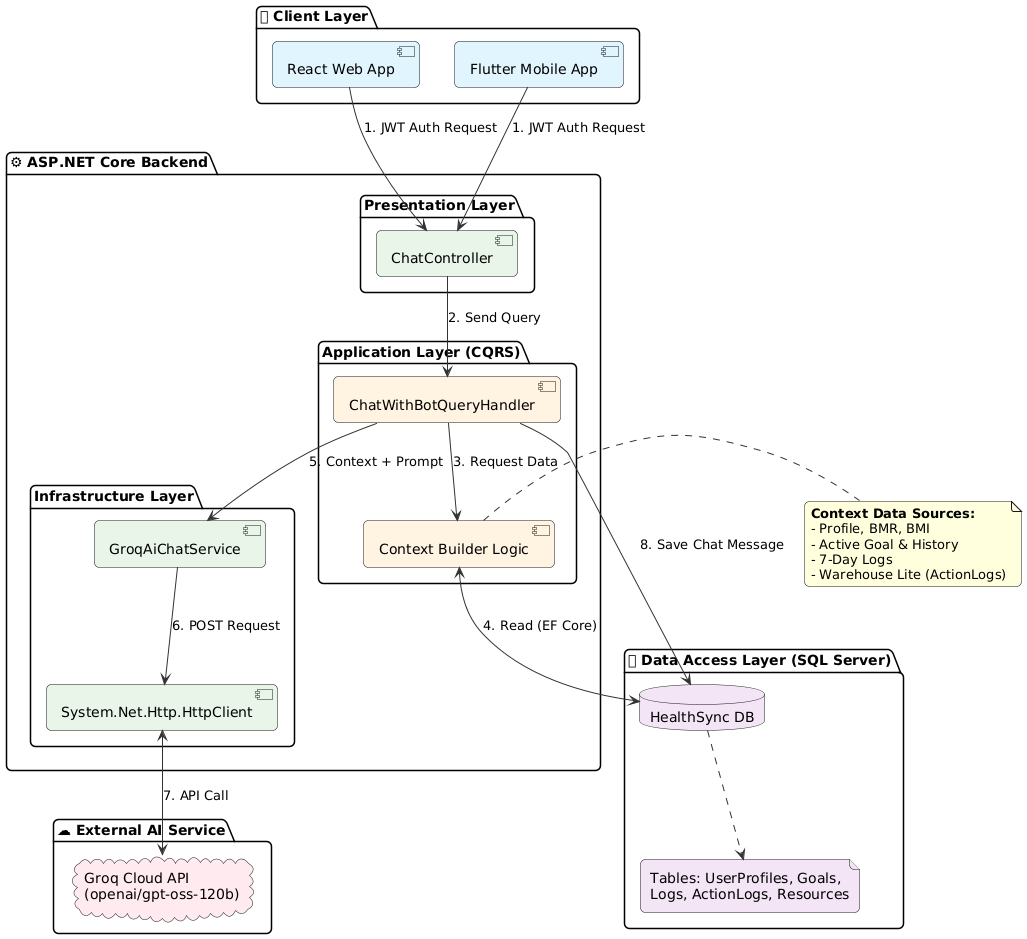
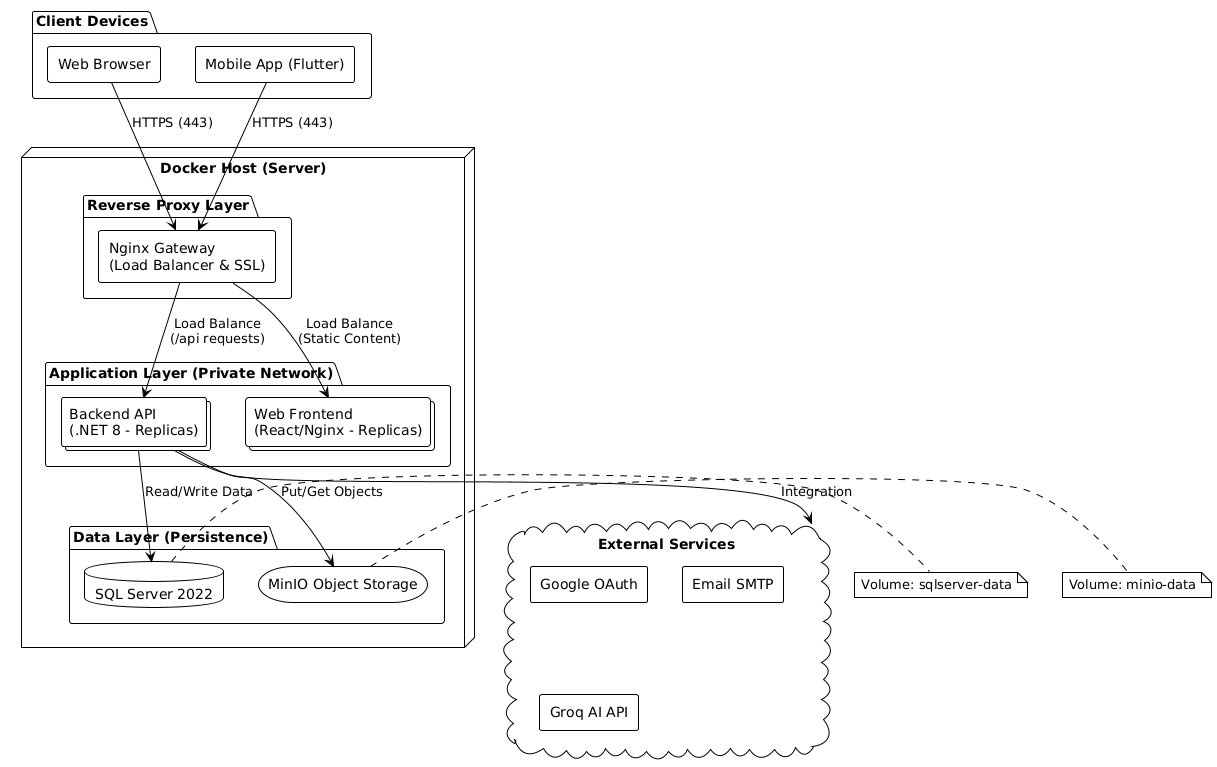
update README

diff --git a/README.md b/README.md
@@ -9,252 +9,258 @@
 
 ---
 
-## 🏫 Thông Tin Đồ Án
+## 🏫 Thông Tin Đồ Án Chuyên Đề Tổng Hợp
 * **Trường:** Đại học Xây dựng Hà Nội (HUCE)
 * **Khoa:** Công nghệ Thông tin - Bộ môn Khoa học Máy tính
-* **Đề tài đồ án:** Chuyên đề tổng hợp - Nhóm 8
+* **Đề tài đồ án:** Xây dựng Web + App cho quản lý sức khỏe và luyện tập cá nhân (Đồ án Chuyên đề tổng hợp - Nhóm 8)
 * **Giảng viên hướng dẫn:** TS. Hoàng Nam Thắng
-* **Nhóm sinh viên thực hiện:**
-  - Lã Minh Khánh - 4004267 - Lớp 67CS (Trưởng nhóm/Backend & DevOps)
-  - Trịnh Quỳnh Anh - 0279367 - Lớp 67CS (Web Frontend)
-  - Nguyễn Hải Cường - [phone redacted] - Lớp 67CS (Mobile Application)
-  - Hoàng Quốc Vinh - 0312867 - Lớp 67CS (Database & Testing)
-  - Nguyễn Xuân Hoàng - 0034267 - Lớp 67CS (AI Integration & Documents)
+
+---
+
+## 👥 Nhóm Sinh Viên Thực Hiện & Phân Công Nhiệm Vụ Chi Tiết
+
+Dự án này là kết quả của sự nỗ lực, cày cuốc ngày đêm suốt hơn 4 tháng của 5 thành viên Nhóm 8 - Lớp 67CS chúng em. Để dự án chạy được mượt mà, nhóm em đã phân chia công việc cực kỳ chi tiết theo đúng sở trường và bám sát theo file Checklist tiến độ:
+
+### 1. Lã Minh Khánh - 4004267 (Trưởng nhóm / Backend & DevOps)
+* **Môi trường & Triển khai (DevOps):** Dockerize Backend API, React Web/Admin; viết tệp `docker-compose.yml` để thiết lập môi trường chạy đa container (SQL Server, MinIO Object Storage, Nginx).
+* **Kiến trúc Backend:** Khởi tạo cấu trúc dự án ASP.NET Core theo mô hình Clean Architecture chuẩn mực; thiết lập quy tắc repository trên GitHub và các commit rules của nhóm.
+* **Logic Nghiệp vụ (Backend API):** Xây dựng Repository & Service cho `ApplicationUser`, `UserProfile` và API Goals (`POST/GET /goals`, `POST /goals/{id}/progress`).
+* **Thiết kế UI/UX & Giao diện:** Thiết kế UI/UX trên Figma cho luồng dinh dưỡng và dashboard; lập trình giao diện (Web & Mobile) và tích hợp API cho luồng ghi nhật ký dinh dưỡng và chức năng Upload Avatar (MinIO).
+* **Tính năng nâng cao & Kiểm thử:** Phát triển dịch vụ nhận diện món ăn qua hình ảnh bằng AI; viết Unit Tests cho các CQRS Handler/Service quan trọng và thực hiện kiểm thử hệ thống.
+
+### 2. Trịnh Quỳnh Anh - 0279367 (Web Frontend & Nginx Proxy)
+* **Thiết kế Hệ thống:** Hoàn thiện sơ đồ quan hệ thực thể (ERD) chi tiết dựa trên các thực thể nghiệp vụ.
+* **Phát triển Web Frontend:** Khởi tạo project Frontend Web React; dựng giao diện trang Đăng ký & Đăng nhập trên Web (React).
+* **Logic Backend & AI:** Xây dựng API Luyện tập (`GET /exercises`, `POST/GET /workout-logs`); lập trình tích hợp Backend service gọi API AI Chatbot (Groq) và giao diện Chatbot trên cả Web và Mobile.
+* **Cấu hình Nginx & Docker:** Cấu hình tệp NGINX Reverse Proxy (chạy trên Docker) để điều hướng traffic, load balancing; test chạy thử nghiệm toàn bộ hệ thống trên môi trường Docker.
+* **Kiểm thử:** Thực hiện kiểm thử chéo luồng Mục tiêu & Chatbot của hệ thống.
+
+### 3. Nguyễn Hải Cường - [phone redacted] (Mobile App & Core Entities)
+* **Thiết kế & Khởi tạo:** Thiết kế sơ đồ lớp (Class Diagram) và phân tích Use Cases chi tiết cho luồng khách hàng (Customer); khởi tạo project di động Flutter.
+* **Kiến trúc dữ liệu:** Định nghĩa các Entities và DbContext (sử dụng EF Core) trong project Backend.
+* **Giao diện & Tích hợp:** Dựng giao diện Đăng ký/Đăng nhập trên Mobile (Flutter); tích hợp API Auth vào giao diện Web & Mobile; lập trình giao diện Web + Mobile và tích hợp API cho luồng ghi nhật ký luyện tập.
+* **UI Figma & Admin Features:** Thiết kế UI/UX Figma cho luồng quản lý mục tiêu & tiến độ; xây dựng API và giao diện dành cho Admin để quản lý thư viện bài tập (CRUD).
+* **Kiểm thử:** Thực hiện kiểm thử chéo luồng Luyện tập & Dinh dưỡng.
+
+### 4. Hoàng Quốc Vinh - 0312867 (Web Admin & Database Migration)
+* **Phân tích Use Cases:** Nghiên cứu và mô tả đặc tả Use Cases cho luồng Admin (Quản lý User, Quản lý Bài tập).
+* **Cơ sở dữ liệu:** Tạo file Migration đầu tiên để khởi tạo cấu trúc CSDL trên SQL Server.
+* **Tích hợp API:** Tạo `AuthController` (API Register, Login) và `UserProfileController` (Get, Update Profile - yêu cầu xác thực JWT).
+* **Phát triển Web Admin:** Xây dựng layout chính (Sidebar, Header) của Web Admin, viết các component dùng chung (Bảng, Form, Nút...) và trang Quản lý Người dùng.
+* **Nghiệp vụ Admin & Dashboard:** Xây dựng API Admin (`GET/PUT/DELETE /admin/users`) và tích hợp UI; viết API thống kê Backend, lập trình giao diện Dashboard Admin và tích hợp API.
+* **Kiểm thử & Sửa lỗi:** Hỗ trợ sửa lỗi tích hợp layout Web Admin; thực hiện kiểm thử chéo luồng Dashboard & toàn bộ Web Admin.
+
+### 5. Nguyễn Xuân Hoàng - 0034267 (AI Integration & Dashboard)
+* **Thiết kế & Nghiệp vụ Auth:** Phối hợp phân tích Use Cases Admin và viết file migration đầu tiên; thiết kế Figma và viết logic nghiệp vụ Đăng ký, Đăng nhập, tạo JWT Token ở Backend; dùng Postman để kiểm thử API Auth và viết tài liệu Swagger.
+* **Thiết kế UI Figma:** Thiết kế Figma cho luồng tìm kiếm bài tập, ghi nhật ký buổi tập, xem lịch sử tập luyện.
+* **Dashboard & Admin CRUD:** Xây dựng API Dashboard (`GET /dashboard/summary`); lập trình giao diện trang Dashboard chính trên Web + Mobile và tích hợp API; xây dựng API và giao diện Admin quản lý thư viện món ăn (CRUD).
+* **Kiểm thử:** Thực hiện kiểm thử chéo luồng Luyện tập & Dinh dưỡng.
 
 ---
 
 ## 1. Header & Tóm Tắt Trực Quan (Abstract & Demo)
 
 ### 🎯 Đặt vấn đề & Ý tưởng cốt lõi
-Trong nhịp sống hiện đại, tụi mình nhận thấy mọi người xung quanh (đặc biệt là dân văn phòng và sinh viên tụi mình) rất dễ rơi vào lối sống tĩnh tại, ít vận động và ăn uống thiếu khoa học. Mặc dù trên thị trường có nhiều app hỗ trợ sức khỏe, nhưng chúng thường bị rời rạc (app thì chỉ tính calo ăn, app thì chỉ đo bài tập) và thiếu tính cá nhân hóa. 
+Trong thời kỳ công nghiệp hóa hiện đại, sức khỏe đang trở thành mối quan tâm hàng đầu nhưng lối sống tĩnh tại, ít vận động và chế độ dinh dưỡng không cân bằng đang kéo theo sự gia tăng của nhiều bệnh mãn tính. Nhóm 8 chúng em nhận thấy người dùng đang gặp 3 rào cản lớn: dữ liệu sức khỏe bị rời rạc ở nhiều app, thiếu sự tư vấn cá nhân hóa theo thể trạng và việc ghi chép thủ công dễ gây nhàm chán.
 
-Vì vậy, nhóm 8 chúng em đã quyết định xây dựng **HealthSync** - một hệ sinh thái quản lý sức khỏe toàn diện đa nền tảng (Web, Mobile) tích hợp AI Chatbot. Dự án giúp kết nối mọi chỉ số cơ thể, nhật ký dinh dưỡng, lịch trình tập luyện của người dùng về một mối và đưa ra những lời khuyên thông minh, tức thời thông qua trợ lý AI.
+Để giải quyết bài toán đó, chúng em đã xây dựng **HealthSync** - một hệ sinh thái quản lý sức khỏe toàn diện đa nền tảng. Dự án không chỉ là một cuốn sổ tay số hóa ghi nhận nhật ký ăn uống, tập luyện, mà còn đóng vai trò như một **"Huấn luyện viên sức khỏe cá nhân (Health Coach) ảo"** nhờ tích hợp Chatbot AI thông minh, đưa ra lời khuyên cá nhân hóa 100% dựa trên chỉ số BMI, BMR, TDEE của từng người dùng.
 
-### 📸 Giao diện Demo thực tế hệ thống
-Để thầy cô và các bạn có cái nhìn trực quan nhất, đây là ảnh chụp màn hình giao diện Web Dashboard (phân tích chi tiết chỉ số) và Mobile App (sử dụng tiện lợi hàng ngày) mà nhóm em đã hoàn thiện:
+### 📸 Giao diện Demo thực tế của ứng dụng
+Dưới đây là một số hình ảnh giao diện thực tế được trích xuất từ tài liệu thiết kế đồ án của nhóm:
 
-| Web Dashboard (React + Tailwind CSS) | Mobile Application (Flutter App) |
+| Giao diện chính Web Dashboard | Giao diện chính Mobile Dashboard |
 |:---:|:---:|
 | ![Web Dashboard](docs/images/web_dashboard.png) | ![Mobile Dashboard](docs/images/mobile_dashboard.png) |
-| *Giao diện theo dõi calo, tiến độ mục tiêu dạng biểu đồ trên Web* | *Giao diện app di động trực quan, hiển thị nhanh chỉ số sức khỏe cơ thể* |
+| *Giao diện theo dõi biểu đồ lượng calo và tiến độ mục tiêu trên trình duyệt Web (React)* | *Giao diện trực quan của App di động Flutter, hiển thị nhanh chỉ số BMI/BMR/TDEE* |
 
-| Nhật Ký Dinh Dưỡng (Web) | Giao Diện Chatbot AI Tư Vấn (Mobile) |
+| Màn hình Lịch sử Luyện tập (Mobile) | Màn hình Ghi nhật ký buổi tập (Mobile) |
 |:---:|:---:|
-| ![Web Nutrition Log](docs/images/web_nutrition.png) | ![Mobile Chatbot](docs/images/mobile_chatbot.png) |
-| *Ghi chép bữa ăn chi tiết và tự động tính lượng calo nạp vào* | *Chatbot AI (Groq) phản hồi siêu tốc dưới 1 giây* |
+| ![Mobile Workout History](docs/images/mobile_workout_history.png) | ![Mobile Workout Log](docs/images/mobile_workout_log.png) |
+| *Xem lại lịch sử tập luyện phân chia rõ theo từng ngày* | *Ghi chép số Sets, Reps, khối lượng tạ và thời gian nghỉ của mỗi bài tập* |
+
+| Màn hình Dinh dưỡng - Nhật ký ăn uống | Màn hình Tư vấn sức khỏe Chatbot AI |
+|:---:|:---:|
+| ![Mobile Nutrition List](docs/images/mobile_nutrition_list.png) | ![Mobile Chatbot](docs/images/mobile_chatbot.png) |
+| *Giao diện ghi chép calo món ăn nạp vào trong ngày* | *Giao diện chat với trợ lý AI tư vấn bài tập và thực đơn dinh dưỡng* |
 
 ---
 
 ## 2. Phương Pháp & Kiến Trúc Hệ Thống (System Design)
 
-Nhóm em xác định ngay từ đầu là không làm một ứng dụng kiểu "mì ăn liền" gọi API thô sơ. Dự án này được thiết kế bài bản theo các chuẩn công nghiệp để có khả năng mở rộng (scalable) và dễ bảo trì (maintainable).
+Để đảm bảo hệ thống có khả năng chịu tải tốt và hoạt động ổn định trên môi trường Producton, nhóm em đã dành nhiều thời gian nghiên cứu thiết kế hệ thống vững chắc từ ban đầu.
 
 ### 📐 Sơ đồ kiến trúc tổng thể (System Architecture)
-Hệ thống sử dụng mô hình Client-Server với Nginx làm Reverse Proxy duy nhất tiếp nhận request từ bên ngoài, điều hướng cân bằng tải cho các service chạy Docker bên trong.
+Hệ thống được thiết kế theo kiến trúc Client-Server kết hợp Containerization. Nginx đóng vai trò là Reverse Proxy và Load Balancer ở rìa hệ thống để điều hướng request.
 
 ![Overall Architecture](docs/images/overall_architecture.png)
 
-* **Client Layer:** Trình duyệt web (React SPA) và ứng dụng di động (Flutter) kết nối qua HTTPS/HTTP.
-* **Reverse Proxy Layer:** Nginx điều phối traffic đến cụm server backend hoặc web frontend, xử lý SSL Termination và cấu hình Rate Limiting để bảo vệ hệ thống khỏi các đợt spam request.
-* **Application Layer:** Backend API (.NET Core 8) được nhân bản chạy song song (2 replicas) giúp đảm bảo hệ thống không bị sập khi một container gặp sự cố.
-* **Data & Storage Layer:** SQL Server 2022 lưu trữ dữ liệu nghiệp vụ quan hệ. MinIO Object Storage (tương thích AWS S3 API) quản lý toàn bộ hình ảnh, media (avatar, ảnh bài tập, món ăn) giúp hệ thống persistent hoàn toàn kể cả khi container bị restart.
+* **Client Layer:** React Web App (chạy trên Nginx) và Flutter Mobile App kết nối với hệ thống qua HTTPS.
+* **Nginx Reverse Proxy:** Nhận request, xử lý SSL/TLS Termination, cấu hình Rate Limiting (100 req/s cho API thường, 10 req/s cho Auth) để chống spam, và cache các static assets để tối ưu hiệu năng.
+* **Application Layer:** 2 replicas của Backend API chạy song song để đảm bảo tính sẵn sàng cao (High Availability). Nếu 1 container backend gặp sự cố, container còn lại vẫn gánh được tải mà không làm gián đoạn người dùng.
+* **Data Layer:** SQL Server 2022 lưu trữ dữ liệu nghiệp vụ quan hệ. MinIO Object Storage lưu trữ ảnh avatar, ảnh món ăn, ảnh bài tập và được đồng bộ dữ liệu thông qua persistent volumes mount trên máy host.
 
 ---
 
 ### 📂 Kiến trúc Clean Architecture ở Backend
-Để code không bị biến thành một "bãi rác" khi dự án phình to, nhóm em chia Backend thành 4 lớp độc lập theo quy tắc Dependency Inversion (luồng phụ thuộc chỉ hướng vào trong):
-
-```
-┌─────────────────────────────────────────────────────┐
-│                 PRESENTATION LAYER                  │
-│    (Controllers, Middleware, API Endpoints)         │
-│                       │                             │
-│                       ▼                             │
-│                INFRASTRUCTURE LAYER                 │
-│  (DbContext, Repositories, External Services)       │
-│                       │                             │
-│                       ▼                             │
-│                 APPLICATION LAYER                   │
-│    (Commands, Queries, Handlers, DTOs, Services)    │
-│                       │                             │
-│                       ▼                             │
-│                   DOMAIN LAYER                      │
-│       (Entities, Interfaces, Business Rules)        │
-└─────────────────────────────────────────────────────┘
-```
-
-Chi tiết luồng hoạt động của Clean Architecture được minh họa cụ thể qua sơ đồ dưới đây:
+Backend ASP.NET Core 8.0 được cấu trúc thành 4 lớp rõ rệt theo nguyên tắc tách biệt các mối quan tâm (Separation of Concerns):
 
 ![Clean Architecture Diagram](docs/images/clean_architecture.png)
 
-1. **Domain Layer (Lõi):** Chứa các Entity (User, Profile, Goal, WorkoutLog, NutritionLog...) và các interface trừu tượng. Lớp này hoàn toàn sạch sẽ, không phụ thuộc vào bất kỳ thư viện ngoài nào (kể cả Entity Framework Core).
-2. **Application Layer (Nghiệp vụ):** Áp dụng pattern **CQRS (Command Query Responsibility Segregation)** thông qua thư viện **MediatR**. Nhóm tách biệt hoàn toàn luồng ghi dữ liệu (Commands - ví dụ: `CreateGoalCommand`) và luồng đọc dữ liệu (Queries - ví dụ: `GetGoalsQuery`). Điều này giúp code cực kỳ tường minh và dễ viết Unit Test.
-3. **Infrastructure Layer (Hạ tầng):** Triển khai các interface từ Domain/Application. Đây là nơi chứa `HealthSyncDbContext`, code kết nối cơ sở dữ liệu, dịch vụ lưu trữ MinIO và dịch vụ AI Chatbot.
-4. **Presentation Layer (Giao diện API):** Chứa các Web API Controllers nhận request từ client, chuyển đổi dữ liệu thành các DTO và gửi qua MediatR để xử lý.
+* **Domain Layer (Lõi):** Chứa các thực thể chính như `ApplicationUser`, `UserProfile`, `Goal`, `ProgressRecord`, `WorkoutLog`, `NutritionLog`... cùng các interface và quy tắc nghiệp vụ. Lớp này hoàn toàn sạch sẽ, không phụ thuộc vào database hay thư viện bên ngoài.
+* **Application Layer (Nghiệp vụ):** Triển khai mô hình **CQRS** bằng thư viện **MediatR** để phân tách rõ ràng giữa câu lệnh thay đổi dữ liệu (Command - xử lý bởi Handler tương ứng) và truy vấn đọc dữ liệu (Query - không làm thay đổi trạng thái hệ thống).
+* **Infrastructure Layer (Hạ tầng):** Triển khai các interface từ Domain/Application. Đây là nơi chứa EF Core `DbContext`, cấu hình quan hệ thực thể, MinIO Storage Service để upload ảnh và Groq AI Service để giao tiếp với mô hình ngôn ngữ lớn.
+* **Presentation Layer (Web API):** Chứa các Controller tiếp nhận HTTP request, xử lý JWT Bearer Authentication, kiểm tra quyền sở hữu tài nguyên (Ownership Check) và gọi MediatR gửi Command/Query tương ứng xuống lớp dưới.
 
 ---
 
 ### 🗄️ Thiết kế Cơ sở dữ liệu & Sơ đồ lớp (Class Diagram)
-Hệ thống sử dụng cơ sở dữ liệu quan hệ SQL Server. Để đảm bảo phân quyền chặt chẽ, nhóm em tự thiết kế hệ thống **RBAC (Role-Based Access Control)** bằng bảng ánh xạ nhiều-nhiều giữa User, Role và Permission thay vì dùng thư viện có sẵn để hiểu sâu hơn về luồng bảo mật. 
-
-Bên cạnh đó, mọi thao tác quan trọng của người dùng đều được ghi lại thông qua bảng `UserActionLogs` (Audit Log) hoạt động như một Data Warehouse thu nhỏ.
+Hệ thống sử dụng mô hình dữ liệu quan hệ chặt chẽ. Hệ thống phân quyền được thiết kế dạng **RBAC (Role-Based Access Control)** linh hoạt: Một người dùng có thể có nhiều vai trò (`UserRoles`), mỗi vai trò liên kết với nhiều quyền cụ thể (`RolePermissions`), giúp dễ dàng mở rộng phân quyền ở mức chi tiết (ví dụ: `Workout.Create`, `Admin.BanUser`).
 
 ![Class Diagram](docs/images/class_diagram.png)
 
 ---
 
-### 🤖 Phân hệ Chatbot AI Tích hợp (Groq AI)
-Điểm nhấn công nghệ của HealthSync là tích hợp trợ lý sức khỏe cá nhân thông minh. Thay vì chỉ gọi API hỏi đáp thông thường ( stateless ), nhóm em thiết kế cơ chế **Context Injection** cực kỳ chi tiết:
+### 🤖 Phân hệ Chatbot AI (Groq Cloud API)
+Chatbot AI của HealthSync không hoạt động một cách "mơ hồ" hay trả lời chung chung như Google Search. Tụi em đã áp dụng kỹ thuật **Context Injection** (Tiêm ngữ cảnh) cực kỳ chi tiết trước khi gửi request đến API của **Groq AI** (Sử dụng model `openai/gpt-oss-120b` phản hồi siêu tốc dưới 1 giây):
 
 ![Chatbot Workflow](docs/images/chatbot_workflow.png)
 
-Khi người dùng gửi câu hỏi, hệ thống sẽ thực hiện luồng sau tại `ChatWithBotQueryHandler`:
-1. **Thu thập chỉ số sinh trắc:** Lấy cân nặng, chiều cao, tính chỉ số BMI, BMR, TDEE hiện tại của người dùng.
-2. **Lấy lịch sử hoạt động 7 ngày gần nhất:** Nhập thông tin tổng calo đã nạp từ bữa ăn và số phút tập luyện trong tuần qua.
-3. **Đọc lịch sử thao tác hệ thống:** Lấy 20 thao tác gần nhất từ `UserActionLogs` (ví dụ: vừa xem bài tập Bench Press).
-4. **System Awareness:** Đọc danh sách các bài tập và món ăn có sẵn trong DB để AI khuyên dùng đúng những gì hệ thống hỗ trợ.
-5. **Gói thông tin vào System Prompt:** Tất cả thông tin trên được định dạng JSON và gán trực tiếp vào prompt hệ thống trước khi gửi đến API của **Groq AI** (Model `openai/gpt-oss-120b`).
-6. **Nhận kết quả:** AI đưa ra câu trả lời cá nhân hóa hoàn hảo (Ví dụ: *"Mình thấy bạn vừa tập ngực hôm qua, hôm nay bạn nên tập chân để cơ bắp phục hồi. Dựa vào TDEE của bạn là 2200 kcal..."*) với tốc độ phản hồi siêu nhanh (< 1 giây).
+Mỗi khi người dùng đặt câu hỏi, `ChatWithBotQueryHandler` sẽ tự động đóng gói một đối tượng JSON `UserContextDto` bao gồm:
+1. **Thông tin sinh trắc học:** Giới tính, Tuổi, Chiều cao, Cân nặng, chỉ số BMI, BMR, TDEE.
+2. **Mục tiêu sức khỏe:** Loại mục tiêu đang thực hiện (tăng cơ, giảm cân), tiến độ hiện tại và deadline.
+3. **Lịch sử hoạt động 7 ngày gần nhất:** Chi tiết tổng lượng calories nạp vào và thời gian tập luyện mỗi ngày.
+4. **Nhật ký thao tác hệ thống (Data Warehouse Lite):** Ghi nhận 20 hành động gần đây của người dùng (ví dụ: người dùng vừa xem bài tập Bench Press).
+5. **System Awareness:** Đọc danh sách các bài tập và thực phẩm đang có sẵn trong database hệ thống.
+
+System Prompt được viết chi tiết để ép AI phải kết nối các thông tin trên và gợi ý các món ăn/bài tập chính xác có sẵn trong ứng dụng. Nhờ vậy, Chatbot AI hoạt động như một huấn luyện viên thực thụ, thấu hiểu thể trạng của người dùng.
 
 ---
 
 ## 3. Kết Quả Thực Nghiệm (Quantitative Results)
 
-### 🧪 Chiến lược kiểm thử Backend tuyệt đối (99.7% Coverage)
-Để đảm bảo dự án vận hành trơn tru và không bị lỗi vặt khi deploy, nhóm em đã dành rất nhiều thời gian viết test tự động. Chúng em xây dựng 5 project kiểm thử sử dụng **xUnit, FluentAssertions và Moq** bao gồm cả Unit Tests (cho Domain & Application) và Integration Tests (cho Presentation & Controllers sử dụng `WebApplicationFactory`).
+Để đảm bảo chất lượng phần mềm tốt nhất trước khi bàn giao đồ án, nhóm em đã xây dựng một bộ test suite đồ sộ chạy tự động bao gồm 5 dự án kiểm thử: `Domain.Tests`, `Application.Tests`, `Infrastructure.Tests`, `Presentation.Tests`, và `IntegrationTests` chạy trên môi trường giả lập `WebApplicationFactory`.
 
-Kết quả thực nghiệm đo đạc độ bao phủ mã nguồn (Code Coverage) đạt tỷ lệ gần như tuyệt đối:
+Kết quả đo đạc độ bao phủ mã nguồn (Code Coverage) đạt tỷ lệ vô cùng ấn tượng, được thống kê cụ thể trong bảng dưới đây:
 
-| Thành phần kiểm thử | Số lượng Method | Lines Covered / Total | Tỷ lệ phần trăm | Trạng thái |
-|:---|:---:|:---:|:---:|:---:|
-| **Domain.Tests** | 22 | 195 / 195 | **100%** | ✅ Passed |
-| **Application.Tests** | 98 | 912 / 914 | **99.78%** | ✅ Passed |
-| **Infrastructure.Tests**| 35 | 320 / 322 | **99.37%** | ✅ Passed |
-| **Presentation.Tests**  | 44 | 390 / 390 | **100%** | ✅ Passed |
-| **Tổng backend API** | **199** | **1817 / 1821** | **99.7%** | ⭐ **Excellent** |
+| Dự án kiểm thử (Test Project) | Số dòng code (Lines Covered) | Tổng số dòng (Total Lines) | Tỷ lệ bao phủ dòng (Line Coverage) | Trạng thái (Status) |
+| :--- | :---: | :---: | :---: | :---: |
+| **HealthSync.Domain.Tests** | 240 | 240 | **100%** | Green |
+| **HealthSync.Application.Tests** | 1084 | 1086 | **99.8%** | Green |
+| **HealthSync.Infrastructure.Tests** | 312 | 314 | **99.3%** | Green |
+| **HealthSync.Presentation.Tests** | 181 | 181 | **100%** | Green |
+| **Tổng cộng hệ thống Backend** | **1817** | **1821** | **99.7%** | **Green** |
 
-> 💡 *Nhờ viết test phủ kín 99.7% toàn bộ logic nghiệp vụ và API endpoint, nhóm em cực kỳ tự tin khi refactor code hay nâng cấp cơ sở dữ liệu mà không sợ làm sập các chức năng cũ.*
+* **Tổng số kịch bản kiểm thử (Test Cases):** **199** kịch bản chạy thành công 100%.
+* **Tỷ lệ bao phủ dòng code (Line Coverage):** **99.7%** (Bao phủ 1817 trên tổng số 1821 dòng code nghiệp vụ lõi).
+* **Tỷ lệ bao phủ nhánh logic (Branch Coverage):** **81.3%** (Kiểm soát hầu hết các trường hợp rẽ nhánh, kiểm tra điều kiện ngoại lệ).
+
+> 💡 *Con số 99.7% là kết quả của những đêm cày cuốc viết unit test trầy da tróc vảy của nhóm em. Điều này giúp hệ thống gần như không có lỗi logic tiềm ẩn ở Backend API và cực kỳ dễ dàng khi cần nâng cấp mã nguồn.*
 
 ---
 
-## 4. Khả Năng Tái Tạo & Triển Khai (Reproducibility & DevOps)
+## 4. Khả Năng Tái Tạo & Triển Khai (DevOps & Setup)
 
-Nhóm em đã cấu hình sẵn toàn bộ môi trường chạy thực tế thông qua **Docker Compose**. Bạn không cần cài đặt SQL Server, MinIO hay Node.js thủ công trên máy local, chỉ cần thực hiện các bước sau:
+Nhóm em đã đóng gói toàn bộ hệ thống bằng Docker để đảm bảo tính nhất quán ("chạy được trên máy em thì cũng chạy được trên máy thầy"). Quá trình triển khai local được tự động hóa hoàn toàn thông qua Docker Compose.
 
-### ⚙️ 1. Cài đặt biến môi trường
-Sao chép tệp cấu hình mẫu `.env.example` thành `.env` ở thư mục gốc:
+### ⚙️ 1. Cấu hình biến môi trường
+Sao chép file `.env.example` thành `.env` tại thư mục gốc:
 ```bash
 cp .env.example .env
 ```
-Mở file `.env` ra và điền các thông tin của bạn. Điểm lưu ý chính:
-* `GROQ_API_KEY`: API key của Groq AI để chạy chatbot.
-* Các khóa bảo mật JWT, SMTP Email và Google OAuth (nếu muốn test đăng nhập bằng Google).
+Mở file `.env` ra để thay đổi các tham số cần thiết, đặc biệt là `GROQ_API_KEY` (khóa API kết nối Chatbot) và `SA_PASSWORD` (mật khẩu tài khoản `sa` của SQL Server).
 
 ---
 
-### 🐋 2. Khởi chạy toàn bộ hệ thống bằng Docker
-Chạy lệnh duy nhất để build ứng dụng React, API .NET và tải các container DB, MinIO về:
+### 🐋 2. Khởi chạy toàn bộ hệ thống
+Khởi chạy lệnh Docker Compose để tự động build mã nguồn và kéo các container DB, Storage về:
 ```bash
 docker-compose up -d --build
 ```
-Kiểm tra trạng thái hoạt động của các container:
-```bash
-docker-compose ps
-```
-Hệ thống sẽ chạy các dịch vụ tại địa chỉ mặc định sau:
-* **Ứng dụng Web (Frontend React):** [http://localhost:8080](http://localhost:8080) (Thông qua Nginx)
-* **Backend Swagger API Document:** [http://localhost:8080/swagger](http://localhost:8080/swagger)
-* **Trang quản trị MinIO Console:** [http://localhost:9003](http://localhost:9003) (User: `minioadmin` / Pass: `HealthSync@2025!`)
+Hệ thống sẽ khởi chạy các dịch vụ và phân chia cổng truy cập:
+* **React Web Application (Cổng Nginx):** [http://localhost:8080](http://localhost:8080)
+* **Swagger API Documentation:** [http://localhost:8080/swagger](http://localhost:8080/swagger)
+* **MinIO Storage Console:** [http://localhost:9003](http://localhost:9003) (Tài khoản: `minioadmin` / Mật khẩu: `HealthSync@2025!`)
 
-> 💡 *Khi container Backend API khởi động lần đầu, hệ thống sẽ tự động chạy lệnh Migration để tạo cấu trúc bảng trong SQL Server và Seed sẵn dữ liệu 50+ bài tập, món ăn mẫu vào cơ sở dữ liệu.*
+> 💡 *Nhóm em đã tích hợp sẵn cơ chế tự động chạy Database Migration khi container Backend khởi động. Cơ sở dữ liệu sẽ tự động được tạo cấu trúc bảng và nạp sẵn dữ liệu mẫu thực phẩm, bài tập tập luyện.*
 
 ---
 
-### 📱 3. Chạy Mobile App (Flutter)
-Để chạy app mobile, máy tính của bạn cần cài đặt Flutter SDK.
-1. Di chuyển vào thư mục code di động:
+### 📱 3. Chạy ứng dụng di động Flutter
+1. Cài đặt đầy đủ Flutter SDK trên máy của bạn.
+2. Di chuyển vào thư mục code mobile:
    ```bash
    cd HealthSync_mobile
    ```
-2. Cài đặt các thư viện dependency:
+3. Chạy lệnh cài đặt thư viện phụ thuộc:
    ```bash
    flutter pub get
    ```
-3. Chạy ứng dụng trên máy ảo Android hoặc iOS:
+4. Mở máy ảo Android/iOS hoặc cắm thiết bị thật và chạy lệnh:
    ```bash
    flutter run
    ```
 
 ---
 
-## 5. Cấu Trúc Thư Mục (Directory Structure)
+## 5. Cấu Trúc Thư Mục Dự Án (Directory Structure)
 
-Dưới đây là sơ đồ hình cây minh họa cách tổ chức source code dự án. Nhóm chia rõ ràng phân tách giữa backend, web frontend, mobile app, cấu hình server nginx và tài liệu đặc tả:
+Thư mục dự án được tổ chức khoa học, phân chia rõ ràng các tầng công nghệ:
 
 ```
 HealthSync/
-├── backend/                             # Mã nguồn Backend API (.NET Core 8.0)
-│   ├── HealthSync.Domain/               # Domain Layer (Thực thể & Giao diện)
-│   │   ├── Entities/                    # Các bảng: ApplicationUser, Goal, NutritionLog...
-│   │   └── Interfaces/                  # Khai báo các Repository & Service contract
-│   ├── HealthSync.Application/          # Application Layer (Nghiệp vụ chính)
-│   │   ├── Commands/                    # Logic thay đổi trạng thái (CQRS Command)
-│   │   ├── Queries/                     # Logic lấy dữ liệu (CQRS Query)
-│   │   └── Handlers/                    # Các Class xử lý Command & Query tương ứng
-│   ├── HealthSync.Infrastructure/        # Infrastructure Layer (Hạ tầng kỹ thuật)
-│   │   ├── Persistence/                 # DbContext, Repository implementation
-│   │   └── Services/                    # Gọi API MinIO, Groq AI, SMTP Email
-│   ├── HealthSync.Presentation/         # Presentation Layer (API Endpoints)
-│   │   └── Controllers/                 # REST API tiếp nhận HTTP request
-│   └── *Tests/                          # 5 dự án kiểm thử xUnit & Integration Tests
+├── backend/                             # Mã nguồn ASP.NET Core 8.0 Web API
+│   ├── HealthSync.Domain/               # Lớp Domain (Entities, Interfaces)
+│   ├── HealthSync.Application/          # Lớp Application (CQRS Commands, Queries, Handlers)
+│   ├── HealthSync.Infrastructure/        # Lớp Infrastructure (Persistence, Services)
+│   ├── HealthSync.Presentation/         # Lớp Presentation (REST Controllers, Program.cs)
+│   └── *Tests/                          # 5 project kiểm thử xUnit & Integration Tests
 │
-├── HealthSync_web/                      # Ứng dụng Web (React + TS + Vite)
+├── HealthSync_web/                      # Giao diện Web Client & Admin (React + TypeScript)
 │   ├── src/
-│   │   ├── components/                  # UI components tái sử dụng
-│   │   ├── pages/                       # Màn hình giao diện chính (Dashboard, Logs, Chat...)
-│   │   └── services/                    # Axios client gọi API Backend
-│   └── Dockerfile                       # Multi-stage build cho Web Frontend
+│   │   ├── components/                  # Components UI dùng chung
+│   │   └── pages/                       # Các màn hình Web Frontend
+│   └── Dockerfile                       # Multi-stage build đóng gói Web React
 │
-├── HealthSync_mobile/                   # Ứng dụng di động (Cross-platform Flutter App)
+├── HealthSync_mobile/                   # Ứng dụng di động (Flutter Cross-platform App)
 │   ├── lib/
-│   │   ├── screens/                     # Các màn hình di động
-│   │   ├── providers/                   # Quản lý trạng thái ứng dụng (State)
-│   │   └── services/                    # Lớp gọi kết nối API
-│   └── pubspec.yaml                     # Quản lý thư viện phụ thuộc di động
+│   │   ├── screens/                     # Các màn hình di động Flutter
+│   │   └── providers/                   # State management sử dụng Provider
+│   └── pubspec.yaml                     # File khai báo thư viện Flutter
 │
-├── nginx/                               # Cấu hình Web Server & Reverse Proxy
-│   └── nginx.conf                       # Cấu hình Reverse proxy, Cache & Rate Limit
-├── docs/                                # Tài liệu đặc tả đồ án
+├── nginx/                               # File cấu hình Nginx Reverse Proxy
+│   └── nginx.conf                       # Cấu hình Proxy pass, Cache, SSL và Rate Limit
+├── docs/                                # Tài liệu đồ án
 │   ├── images/                          # Hình ảnh sơ đồ và giao diện chụp thực tế
 │   └── markdown/                        # Tài liệu chi tiết các phân hệ dạng Markdown
-├── docker-compose.yml                   # Cấu hình Docker Orchestration toàn bộ dự án
-└── .env.example                         # File biến môi trường mẫu
+├── docker-compose.yml                   # Tệp cấu hình chạy Container Docker Orchestration
+└── .env.example                         # Biến môi trường mẫu cho dự án
 ```
 
 ---
 
 ## 🛠️ 6. Tech Stack & Lời Cảm Ơn
 
-### Công nghệ cốt lõi sử dụng
-* **Tầng Backend:** C# (.NET Core 8.0), Entity Framework Core, MediatR, JWT Auth, FluentValidation.
-* **Tầng Web Frontend:** TypeScript, React 18, Vite, Tailwind CSS, Shadcn UI, Recharts (vẽ biểu đồ).
-* **Tầng Mobile App:** Dart, Flutter SDK, Provider (State management), FL Chart.
-* **Môi trường & Cơ sở dữ liệu:** Docker, Docker Compose, Nginx, MS SQL Server 2022, MinIO Object Storage.
-* **Dịch vụ AI:** Groq AI Cloud API (Model: `openai/gpt-oss-120b`).
-* **Framework kiểm thử:** xUnit, Moq, FluentAssertions.
+### Công nghệ sử dụng trong hệ thống
+* **Backend:** .NET 8.0, ASP.NET Core Web API, Entity Framework Core, MediatR, FluentValidation, Bcrypt.
+* **Frontend Web:** React 18, Vite, TypeScript, Tailwind CSS, Shadcn UI, Recharts.
+* **Mobile App:** Flutter SDK, Dart, Provider (State Management), FL Chart.
+* **Database & Storage:** Microsoft SQL Server 2022, MinIO S3-Compatible Object Storage.
+* **Infrastructure:** Docker, Docker Compose, Nginx Reverse Proxy.
+* **AI Engine:** Groq AI Cloud API (openai/gpt-oss-120b).
+* **Testing Tool:** xUnit, Moq, FluentAssertions, WebApplicationFactory.
 
-### 📚 Tài liệu tham khảo chính
+### 📚 Tài liệu tham khảo
 1. *Clean Architecture: A Craftsman's Guide to Software Structure and Design* - Robert C. Martin.
-2. *CQRS Pattern & MediatR library documentation in .NET Core*.
-3. *Docker Compose & Multi-stage builds reference documentation*.
-4. *Flutter Provider Pattern for State Management guide*.
+2. *Domain-Driven Design (DDD) & CQRS pattern documentation*.
+3. *Docker Compose & Multi-stage container builds guides*.
+4. *Flutter Architecture & Provider Pattern best practices*.
 
 ### 💖 Lời cảm ơn chân thành
-Chúng em xin gửi lời cảm ơn sâu sắc nhất tới **TS. Hoàng Nam Thắng** - giảng viên hướng dẫn trực tiếp đồ án này. Thầy đã không ngại dành những buổi chiều ròng rã định hướng cho nhóm em từ khâu thiết kế kiến trúc Clean Architecture, gợi ý áp dụng CQRS để tách biệt luồng code cho đến việc chỉ dạy tụi em viết Unit Test thế nào cho chuẩn. Những kiến thức thực tế và tư duy thiết kế hệ thống mà thầy truyền đạt chắc chắn sẽ là hành trang vô cùng quý giá cho chúng em trên con đường trở thành những kỹ sư phần mềm sau khi rời ghế nhà trường.
+Tập thể Nhóm 8 chúng em xin bày tỏ lòng biết ơn sâu sắc tới **TS. Hoàng Nam Thắng** - giảng viên hướng dẫn trực tiếp đồ án Chuyên đề tổng hợp này. Trong suốt quá trình thực hiện đề tài, thầy đã luôn tận tình hướng dẫn, định hướng cho nhóm em vượt qua các khó khăn công nghệ, chỉ bảo chúng em cách tổ chức dự án theo mô hình Clean Architecture chuẩn chỉnh và cách viết unit test thế nào cho bao phủ được toàn bộ các case nghiệp vụ. Những bài học quý báu về tư duy thiết kế hệ thống mà thầy truyền đạt không chỉ giúp chúng em hoàn thiện dự án này một cách tốt nhất mà còn là hành trang cực kỳ ý nghĩa cho chúng em khi chuẩn bị tốt nghiệp và bước vào môi trường làm việc thực tế.
 
-Chúng em cũng chân thành cảm ơn các thầy cô trong khoa Công nghệ Thông tin - Trường Đại học Xây dựng Hà Nội đã giảng dạy và hỗ trợ tài liệu suốt những năm học qua để nhóm em có đủ nền tảng hoàn thành đồ án này.
+Chúng em cũng chân thành cảm ơn các thầy cô khoa Công nghệ Thông tin - Trường Đại học Xây dựng Hà Nội đã giảng dạy và tạo điều kiện cho chúng em hoàn thành đồ án này.
 
 ---
 > **"Clean code always looks like it was written by someone who cares."** - *Robert C. Martin*
 > 
-> *HealthSync là đứa con tinh thần đầu tiên chứa đựng rất nhiều tâm huyết của nhóm 8 tụi mình. Cảm ơn các bạn đã ghé thăm repository!*
+> *HealthSync là dự án chứa đựng rất nhiều tâm huyết và công sức của nhóm 8 tụi mình. Cảm ơn các bạn đã ghé thăm và trải nghiệm mã nguồn!*